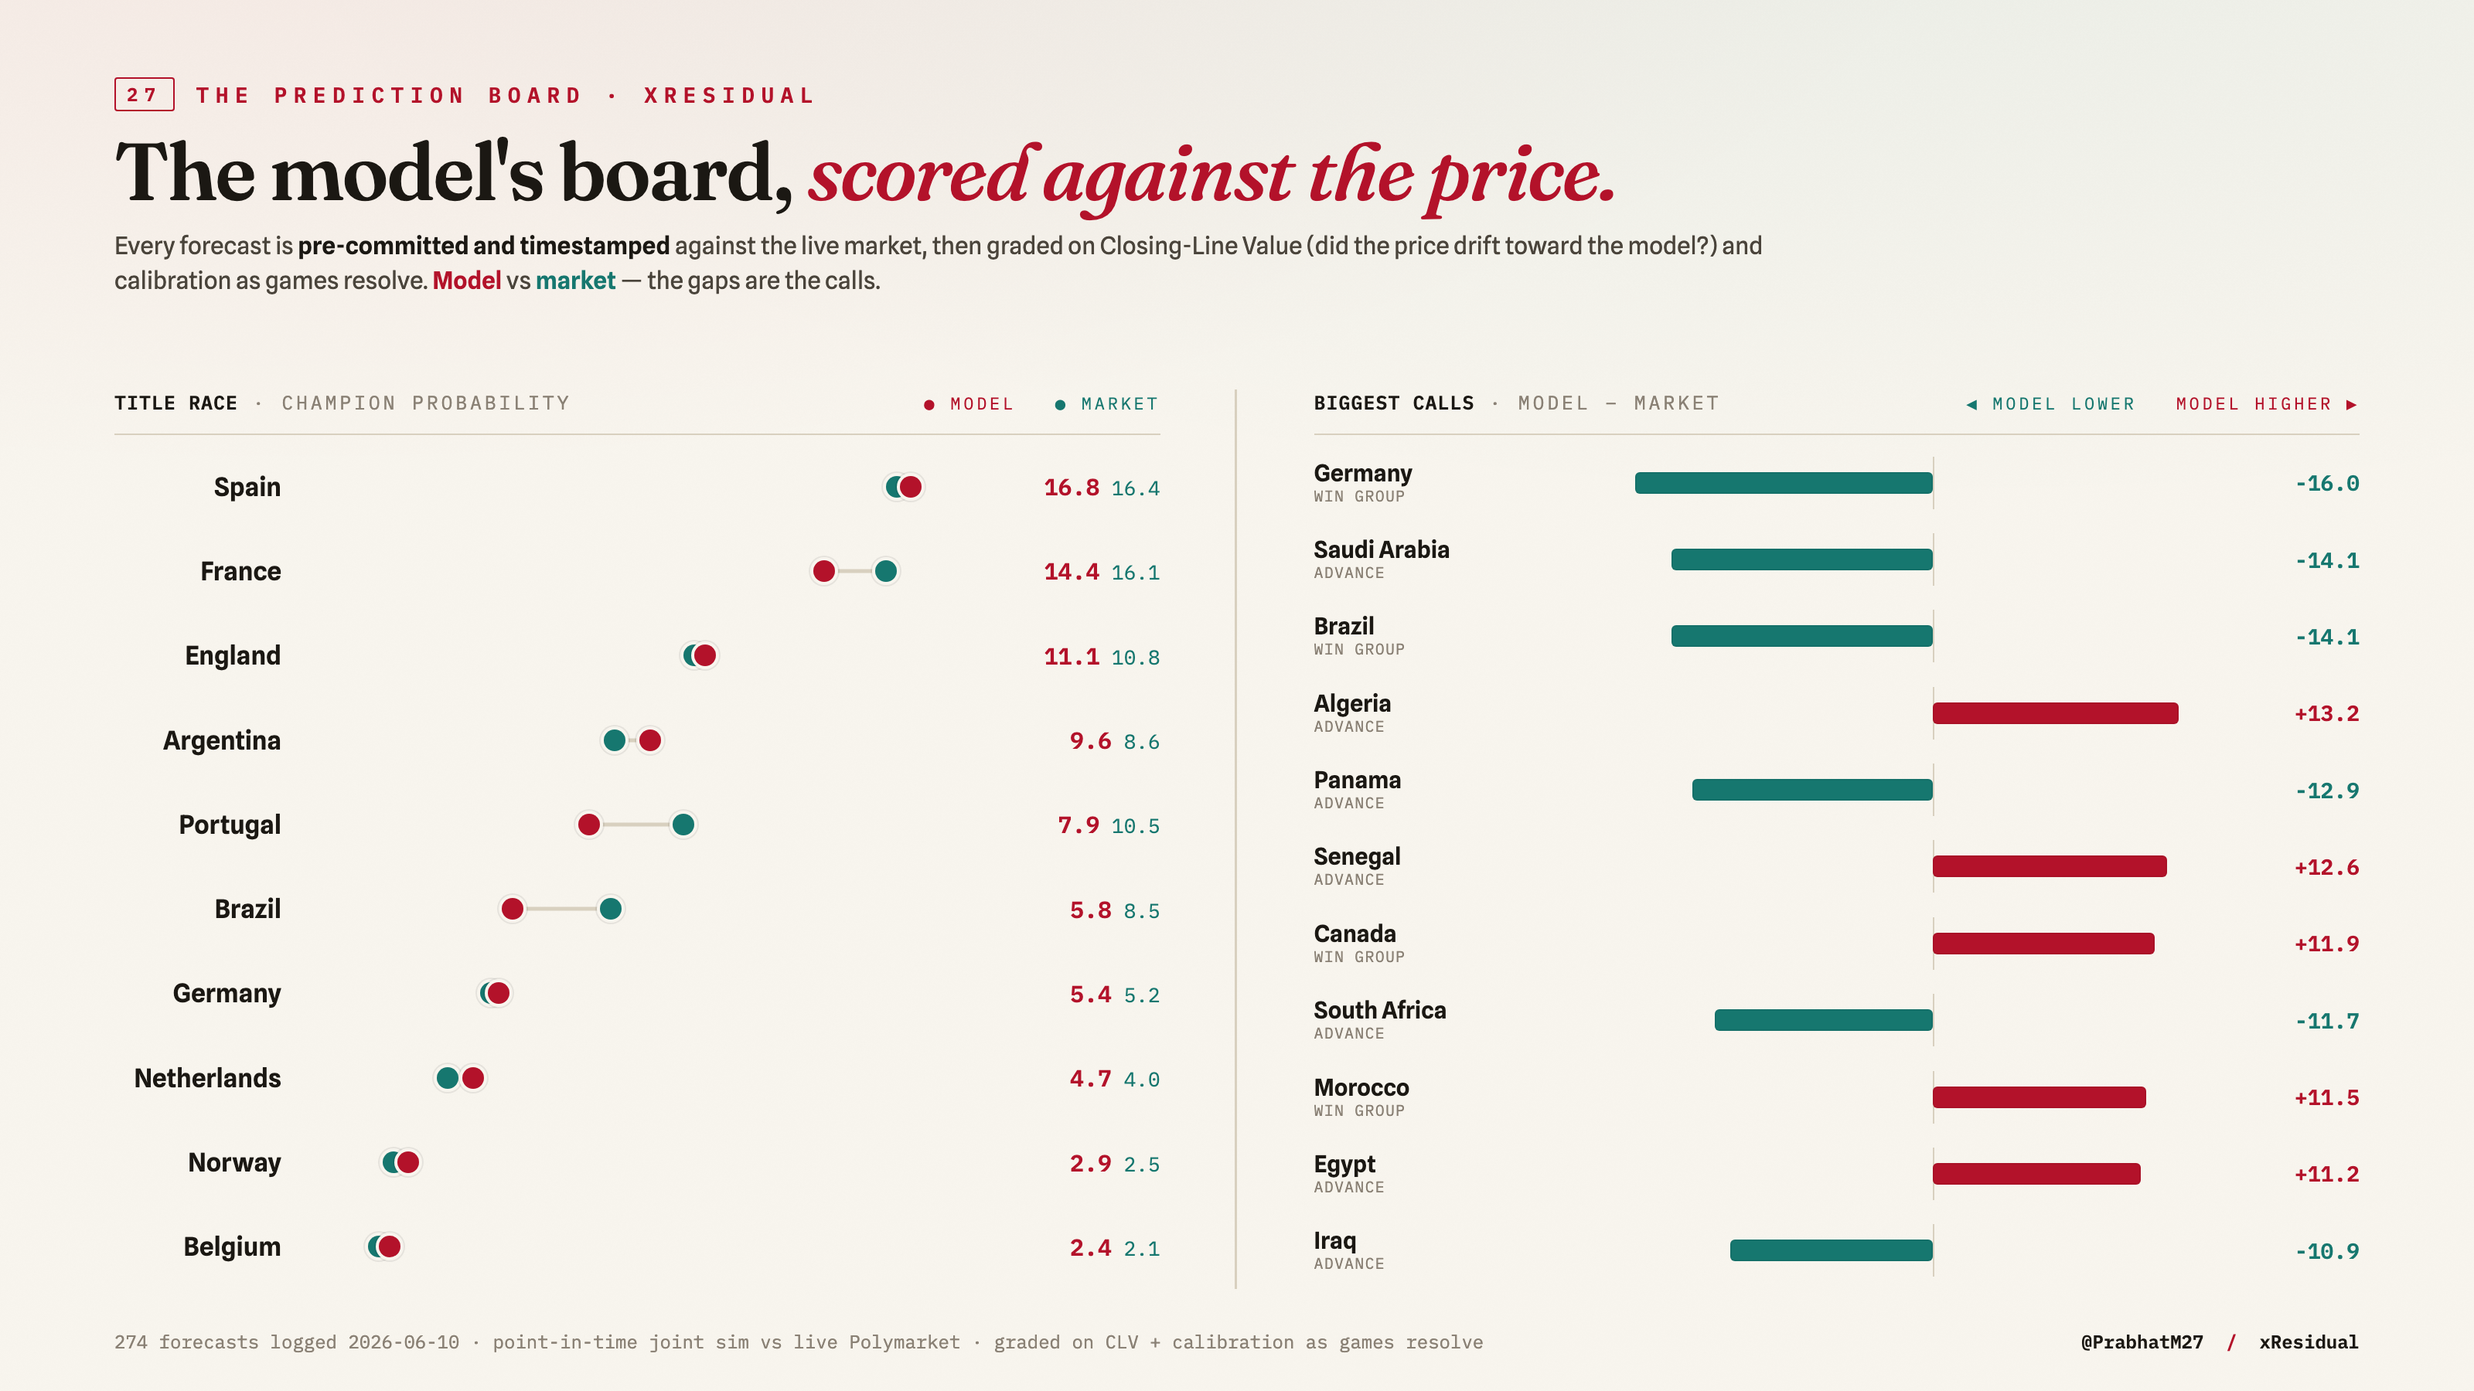
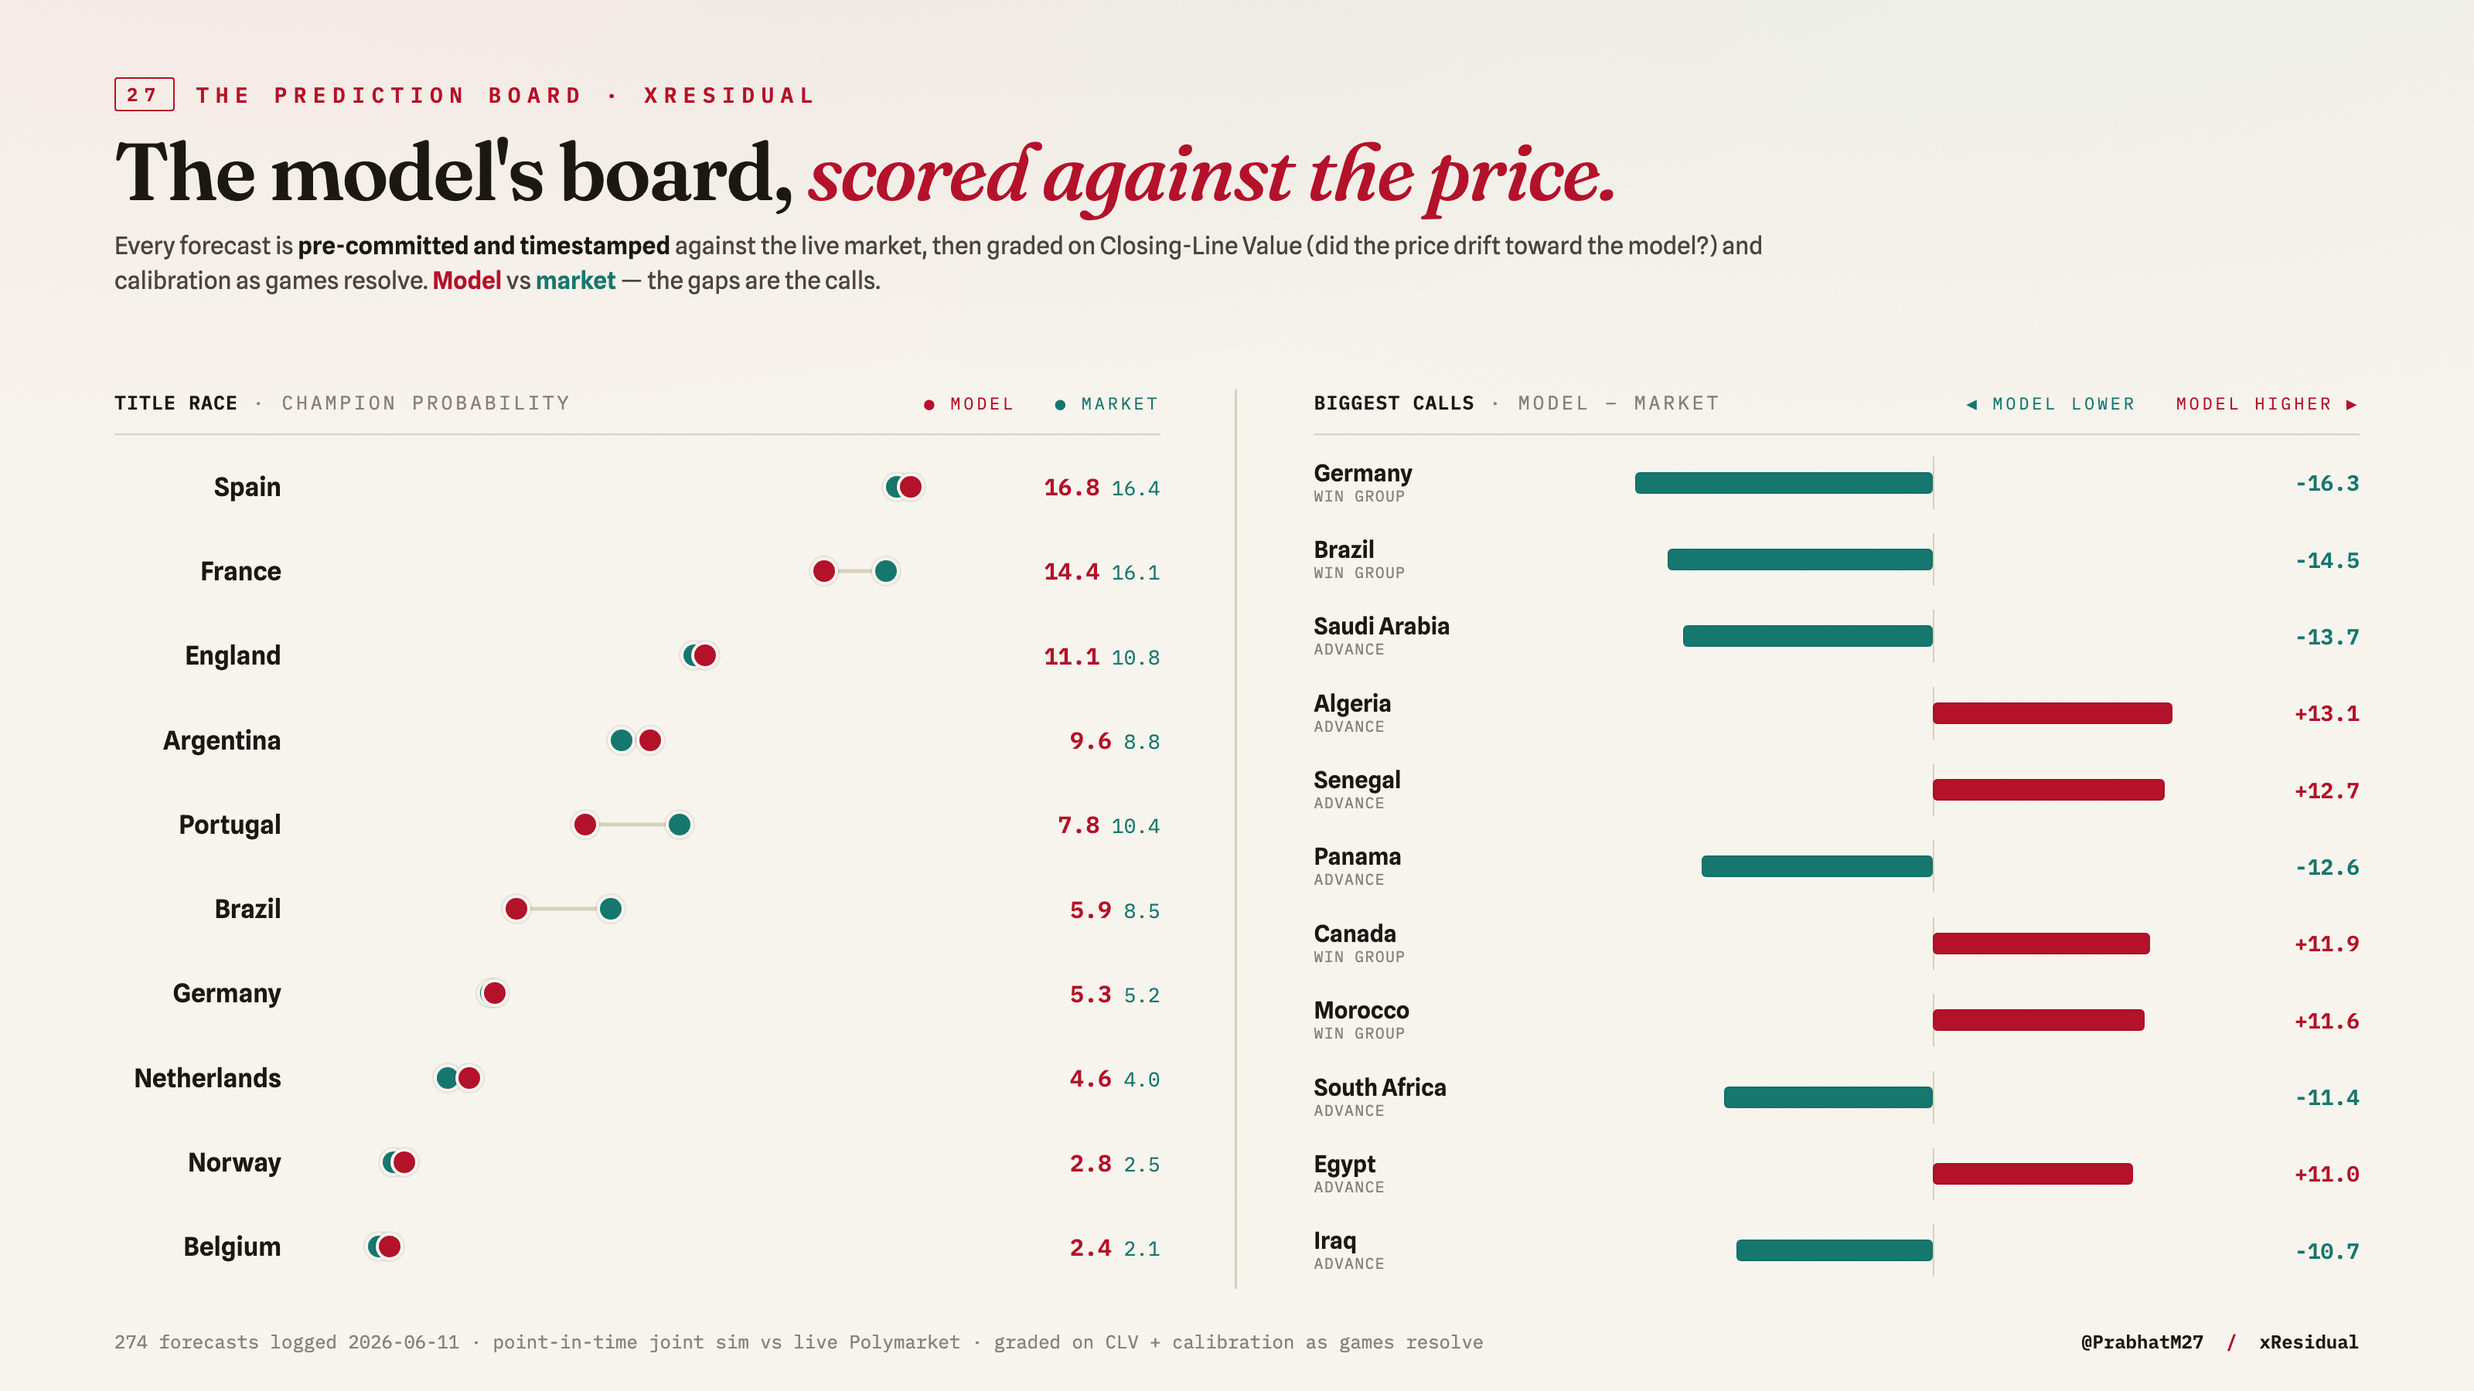
Add venue_calibration and update positions
Add a new scripts/venue_calibration.py to compute per-venue calibration (Brier/log-loss) from captured snapshots and emit docs data. Update paper/book.md and paper/positions.json with new open trades (ids 8–12) and adjusted totals/unrealized P&L. Refresh several visualization assets (market images) and update viz/model/_mispricing.js with recalculated mispricing metrics.

diff --git a/viz/model/_mispricing.js b/viz/model/_mispricing.js
@@ -1,1 +1,1 @@
-window.MISPRICING = {"term_structure": [{"layer": "winner", "n": 48, "mean_abs_gap": 0.42, "fav_gap": -0.06, "longshot_gap": -0.06, "flb_spread": 0.0, "depth": 5, "verdict": "efficient", "verdict_note": "model agrees with the sharp market (\u00b10.4pp)"}, {"layer": "advance-R32", "n": 48, "mean_abs_gap": 5.27, "fav_gap": 3.41, "longshot_gap": -2.46, "flb_spread": -5.87, "depth": 4, "verdict": "our model, not the market", "verdict_note": "bookmakers + Polymarket agree against us \u2014 model under-rates minnow advancement"}, {"layer": "reach-QF", "n": 48, "mean_abs_gap": 3.09, "fav_gap": -2.3, "longshot_gap": -1.24, "flb_spread": 1.06, "depth": 3, "verdict": "thin-market softness", "verdict_note": "favourites overpriced on deep runs (partly model tilt)"}, {"layer": "reach-SF", "n": 48, "mean_abs_gap": 1.64, "fav_gap": -1.12, "longshot_gap": -0.5, "flb_spread": 0.62, "depth": 2, "verdict": "thin-market softness", "verdict_note": "favourites overpriced on deep runs (partly model tilt)"}, {"layer": "elim-champion", "n": 46, "mean_abs_gap": 0.97, "fav_gap": -1.2, "longshot_gap": -0.49, "flb_spread": 0.71, "depth": 1, "verdict": "thinnest market", "verdict_note": "favourite/champion overpricing (#11), partly model tilt"}], "depth": {"winner": 5, "advance-R32": 4, "reach-QF": 3, "reach-SF": 2, "elim-champion": 1}, "edges": {"backs": [{"layer": "advance-R32", "team": "Algeria", "model": 78.7, "market": 65.5, "gap": 13.2, "side": "back", "abs_gap": 13.2, "confound": false}, {"layer": "advance-R32", "team": "Senegal", "model": 83.6, "market": 71.0, "gap": 12.6, "side": "back", "abs_gap": 12.6, "confound": false}, {"layer": "advance-R32", "team": "Egypt", "model": 82.7, "market": 72.5, "gap": 10.2, "side": "back", "abs_gap": 10.2, "confound": false}, {"layer": "advance-R32", "team": "Sweden", "model": 72.5, "market": 62.5, "gap": 10.0, "side": "back", "abs_gap": 10.0, "confound": false}, {"layer": "advance-R32", "team": "Croatia", "model": 89.4, "market": 81.5, "gap": 7.9, "side": "back", "abs_gap": 7.9, "confound": false}, {"layer": "advance-R32", "team": "Turkey", "model": 86.7, "market": 79.5, "gap": 7.2, "side": "back", "abs_gap": 7.2, "confound": false}, {"layer": "advance-R32", "team": "Uruguay", "model": 93.6, "market": 86.5, "gap": 7.1, "side": "back", "abs_gap": 7.1, "confound": false}, {"layer": "advance-R32", "team": "Ivory Coast", "model": 86.5, "market": 80.0, "gap": 6.5, "side": "back", "abs_gap": 6.5, "confound": false}], "fades": [{"layer": "advance-R32", "team": "Saudi Arabia", "model": 22.4, "market": 37.5, "gap": -15.1, "side": "fade", "abs_gap": 15.1, "confound": false}, {"layer": "advance-R32", "team": "Panama", "model": 21.6, "market": 34.5, "gap": -12.9, "side": "fade", "abs_gap": 12.9, "confound": false}, {"layer": "advance-R32", "team": "South Africa", "model": 26.8, "market": 38.5, "gap": -11.7, "side": "fade", "abs_gap": 11.7, "confound": false}, {"layer": "advance-R32", "team": "Qatar", "model": 10.5, "market": 21.5, "gap": -11.0, "side": "fade", "abs_gap": 11.0, "confound": false}, {"layer": "advance-R32", "team": "Australia", "model": 37.6, "market": 47.5, "gap": -9.9, "side": "fade", "abs_gap": 9.9, "confound": false}, {"layer": "advance-R32", "team": "Iraq", "model": 3.6, "market": 13.5, "gap": -9.9, "side": "fade", "abs_gap": 9.9, "confound": false}, {"layer": "advance-R32", "team": "Jordan", "model": 9.7, "market": 19.5, "gap": -9.8, "side": "fade", "abs_gap": 9.8, "confound": false}, {"layer": "reach-SF", "team": "Brazil", "model": 21.5, "market": 30.5, "gap": -9.0, "side": "fade", "abs_gap": 9.0, "confound": false}]}, "n_contracts": 238};
+window.MISPRICING = {"term_structure": [{"layer": "winner", "n": 48, "mean_abs_gap": 0.41, "fav_gap": -0.12, "longshot_gap": -0.05, "flb_spread": 0.07, "depth": 5, "verdict": "efficient", "verdict_note": "model agrees with the sharp market (\u00b10.4pp)"}, {"layer": "advance-R32", "n": 48, "mean_abs_gap": 5.32, "fav_gap": 3.5, "longshot_gap": -2.34, "flb_spread": -5.84, "depth": 4, "verdict": "our model, not the market", "verdict_note": "bookmakers + Polymarket agree against us \u2014 model under-rates minnow advancement"}, {"layer": "reach-QF", "n": 48, "mean_abs_gap": 3.06, "fav_gap": -2.3, "longshot_gap": -1.31, "flb_spread": 0.99, "depth": 3, "verdict": "thin-market softness", "verdict_note": "favourites overpriced on deep runs (partly model tilt)"}, {"layer": "reach-SF", "n": 48, "mean_abs_gap": 1.78, "fav_gap": -1.61, "longshot_gap": -0.78, "flb_spread": 0.83, "depth": 2, "verdict": "thin-market softness", "verdict_note": "favourites overpriced on deep runs (partly model tilt)"}, {"layer": "elim-champion", "n": 46, "mean_abs_gap": 0.97, "fav_gap": -1.2, "longshot_gap": -0.49, "flb_spread": 0.71, "depth": 1, "verdict": "thinnest market", "verdict_note": "favourite/champion overpricing (#11), partly model tilt"}], "depth": {"winner": 5, "advance-R32": 4, "reach-QF": 3, "reach-SF": 2, "elim-champion": 1}, "edges": {"backs": [{"layer": "advance-R32", "team": "Algeria", "model": 78.6, "market": 65.0, "gap": 13.6, "side": "back", "abs_gap": 13.6, "confound": false}, {"layer": "advance-R32", "team": "Senegal", "model": 83.7, "market": 71.0, "gap": 12.7, "side": "back", "abs_gap": 12.7, "confound": false}, {"layer": "advance-R32", "team": "Sweden", "model": 72.3, "market": 60.5, "gap": 11.8, "side": "back", "abs_gap": 11.8, "confound": false}, {"layer": "advance-R32", "team": "Egypt", "model": 82.5, "market": 71.5, "gap": 11.0, "side": "back", "abs_gap": 11.0, "confound": false}, {"layer": "advance-R32", "team": "Ivory Coast", "model": 86.5, "market": 78.5, "gap": 8.0, "side": "back", "abs_gap": 8.0, "confound": false}, {"layer": "advance-R32", "team": "Turkey", "model": 86.4, "market": 79.5, "gap": 6.9, "side": "back", "abs_gap": 6.9, "confound": false}, {"layer": "advance-R32", "team": "Croatia", "model": 89.1, "market": 82.5, "gap": 6.6, "side": "back", "abs_gap": 6.6, "confound": false}, {"layer": "advance-R32", "team": "Czech Republic", "model": 75.7, "market": 69.5, "gap": 6.2, "side": "back", "abs_gap": 6.2, "confound": false}], "fades": [{"layer": "advance-R32", "team": "Saudi Arabia", "model": 22.8, "market": 36.0, "gap": -13.2, "side": "fade", "abs_gap": 13.2, "confound": false}, {"layer": "advance-R32", "team": "Panama", "model": 21.9, "market": 35.0, "gap": -13.1, "side": "fade", "abs_gap": 13.1, "confound": false}, {"layer": "advance-R32", "team": "Tunisia", "model": 24.3, "market": 36.0, "gap": -11.7, "side": "fade", "abs_gap": 11.7, "confound": false}, {"layer": "advance-R32", "team": "Jordan", "model": 10.1, "market": 21.0, "gap": -10.9, "side": "fade", "abs_gap": 10.9, "confound": false}, {"layer": "advance-R32", "team": "South Africa", "model": 27.1, "market": 37.5, "gap": -10.4, "side": "fade", "abs_gap": 10.4, "confound": false}, {"layer": "reach-QF", "team": "Brazil", "model": 39.2, "market": 49.5, "gap": -10.3, "side": "fade", "abs_gap": 10.3, "confound": false}, {"layer": "advance-R32", "team": "Qatar", "model": 10.8, "market": 20.5, "gap": -9.7, "side": "fade", "abs_gap": 9.7, "confound": false}, {"layer": "advance-R32", "team": "New Zealand", "model": 23.0, "market": 32.5, "gap": -9.5, "side": "fade", "abs_gap": 9.5, "confound": false}]}, "n_contracts": 238};

diff --git a/scripts/venue_calibration.py b/scripts/venue_calibration.py
@@ -1,0 +1,129 @@
+#!/usr/bin/env python3
+"""Grade the VENUES, not just the model.
+
+Per-venue calibration of every prediction venue we capture (Polymarket, Kalshi, and the
+bookmaker close) against realised outcomes, scored on each venue's CLOSING price — the last
+captured snapshot BEFORE the market resolved — with Brier, log-loss, and a reliability read.
+
+This is the differentiated half of xResidual: simultaneous tick capture of two venues on the
+same events lets us ask "which crowd was sharpest, and where do the regulated-USD and
+crypto-global books disagree?" head-to-head. Almost no one else has the data to answer it.
+
+PENDING until markets resolve (group-stage markets ~Jun 27, knockout rounds after). It prints
+what it can as outcomes land, and reads the captured snapshot history
+(logger/data/snapshots-*.jsonl) — richest on the always-on VM. PAPER / research only.
+"""
+from __future__ import annotations
+
+import glob
+import json
+import os
+import sys
+
+import numpy as np
+import pandas as pd
+
+ROOT = os.path.dirname(os.path.dirname(os.path.abspath(__file__)))
+sys.path.insert(0, ROOT)
+sys.path.insert(0, os.path.join(ROOT, "scripts"))
+from xresidual import calibration, wc2026_teams as W  # noqa: E402
+import prediction_board as PB  # noqa: E402
+
+SNAP_GLOB = os.path.join(ROOT, "logger", "data", "snapshots-*.jsonl")
+FIXTURES = os.path.join(ROOT, "data", "wc2026_fixtures.csv")
+OUT = os.path.join(ROOT, "docs", "data", "venue_calibration.js")
+
+# captured snapshot extra.market_type -> the resolver's market key
+MARKET_MAP = {"winner": "champion", "champion": "champion", "advance": "advance",
+              "group_winner": "group_win", "group_win": "group_win", "group": "group_win",
+              "qf": "reach_qf", "reach_qf": "reach_qf", "quarterfinal": "reach_qf",
+              "sf": "reach_sf", "reach_sf": "reach_sf", "semifinal": "reach_sf",
+              "final": "reach_final", "reach_final": "reach_final"}
+
+
+def _resolution_cutoffs() -> dict:
+    """Latest timestamp at which a market's CLOSING price is still pre-resolution, per market.
+    Group markets close when the group stage ends; reach-round markets when that round starts;
+    champion at the final. Using a pre-resolution cutoff keeps the closing line from being the
+    post-settlement price (which would be circular)."""
+    fx = pd.read_csv(FIXTURES)
+    fx["date"] = pd.to_datetime(fx["date"]).dt.tz_localize("UTC")   # snapshots are tz-aware UTC
+    grp_end = fx[fx["group"].astype(str).str.startswith("Group")]["date"].max()
+    ko = fx[~fx["group"].astype(str).str.startswith("Group")]
+    rnd = lambda lbl: ko[ko["round"].astype(str) == lbl]["date"].min()
+    return {"advance": grp_end, "group_win": grp_end, "reach_qf": rnd("Quarter-final"),
+            "reach_sf": rnd("Semi-final"), "reach_final": rnd("Final"), "champion": rnd("Final")}
+
+
+def closing_prices(cutoffs: dict) -> dict:
+    """{venue: {(market, canon_team): closing_mid}} — the last snapshot strictly before the
+    market's resolution cutoff, per venue."""
+    latest: dict = {}                          # (venue, market, team) -> (ts, mid)
+    for f in glob.glob(SNAP_GLOB):
+        for line in open(f, encoding="utf-8"):
+            try:
+                r = json.loads(line)
+            except Exception:
+                continue
+            mt = MARKET_MAP.get(str((r.get("extra") or {}).get("market_type", "")).lower())
+            mid, ts = r.get("mid"), r.get("ts_utc", "")
+            if mt is None or mid is None or not ts:
+                continue
+            cut = cutoffs.get(mt)
+            if cut is not None and pd.to_datetime(ts, utc=True) >= cut:
+                continue                        # past the closing line -> skip (avoid circularity)
+            key = (r.get("venue"), mt, W.canonical(r.get("outcome", "")))
+            if key not in latest or ts > latest[key][0]:
+                latest[key] = (ts, float(mid))
+    venues: dict = {}
+    for (venue, mt, team), (_ts, mid) in latest.items():
+        venues.setdefault(venue, {})[(mt, team)] = mid
+    return venues
+
+
+def main() -> int:
+    venues = closing_prices(_resolution_cutoffs())
+    if not venues:
+        print("no captured snapshots yet — venue calibration is PENDING (snapshot history "
+              "lives on the VM; run there or `make pull` first).")
+        return 0
+
+    pairs = sorted({k for v in venues.values() for k in v})
+    pseudo = [{"market": m, "team": t, "model": 0.5, "mkt_at_forecast": 0.5} for (m, t) in pairs]
+    out = PB._resolve_outcomes(pseudo)
+    outcome = {pairs[i]: out.get(i) for i in range(len(pairs))}
+    n_res = sum(1 for o in outcome.values() if o is not None)
+    print(f"venues: {sorted(venues)} · {len(pairs)} market-team pairs captured · {n_res} resolved")
+    if n_res == 0:
+        print("nothing resolved yet — fires once results land (group markets ~Jun 27).")
+        return 0
+
+    rows = []
+    for venue, prices in sorted(venues.items()):
+        p, y = [], []
+        for k, mid in prices.items():
+            o = outcome.get(k)
+            if o is not None:
+                p.append(mid); y.append(float(o))
+        if len(p) < 10:
+            print(f"  {venue:12} only {len(p)} resolved — skip until more land")
+            continue
+        p, y = np.array(p), np.array(y)
+        brier = calibration.brier_score(p, y)
+        logloss = float(np.mean(-(y * np.log(np.clip(p, 1e-9, 1)) + (1 - y) * np.log(np.clip(1 - p, 1e-9, 1)))))
+        rows.append({"venue": venue, "n": len(p), "brier": round(brier, 4), "logloss": round(logloss, 4)})
+        print(f"  {venue:12} n={len(p):<4} Brier {brier:.4f}  log-loss {logloss:.4f}")
+
+    if rows:
+        rows.sort(key=lambda r: r["brier"])
+        payload = {"asof": pd.Timestamp.utcnow().isoformat(), "venues": rows,
+                   "sharpest": rows[0]["venue"]}
+        os.makedirs(os.path.dirname(OUT), exist_ok=True)
+        with open(OUT, "w", encoding="utf-8") as fh:
+            fh.write("window.VENUECAL = " + json.dumps(payload, separators=(",", ":")) + ";\n")
+        print(f"sharpest by Brier: {rows[0]['venue']} · wrote {os.path.relpath(OUT, ROOT)}")
+    return 0
+
+
+if __name__ == "__main__":
+    raise SystemExit(main())
